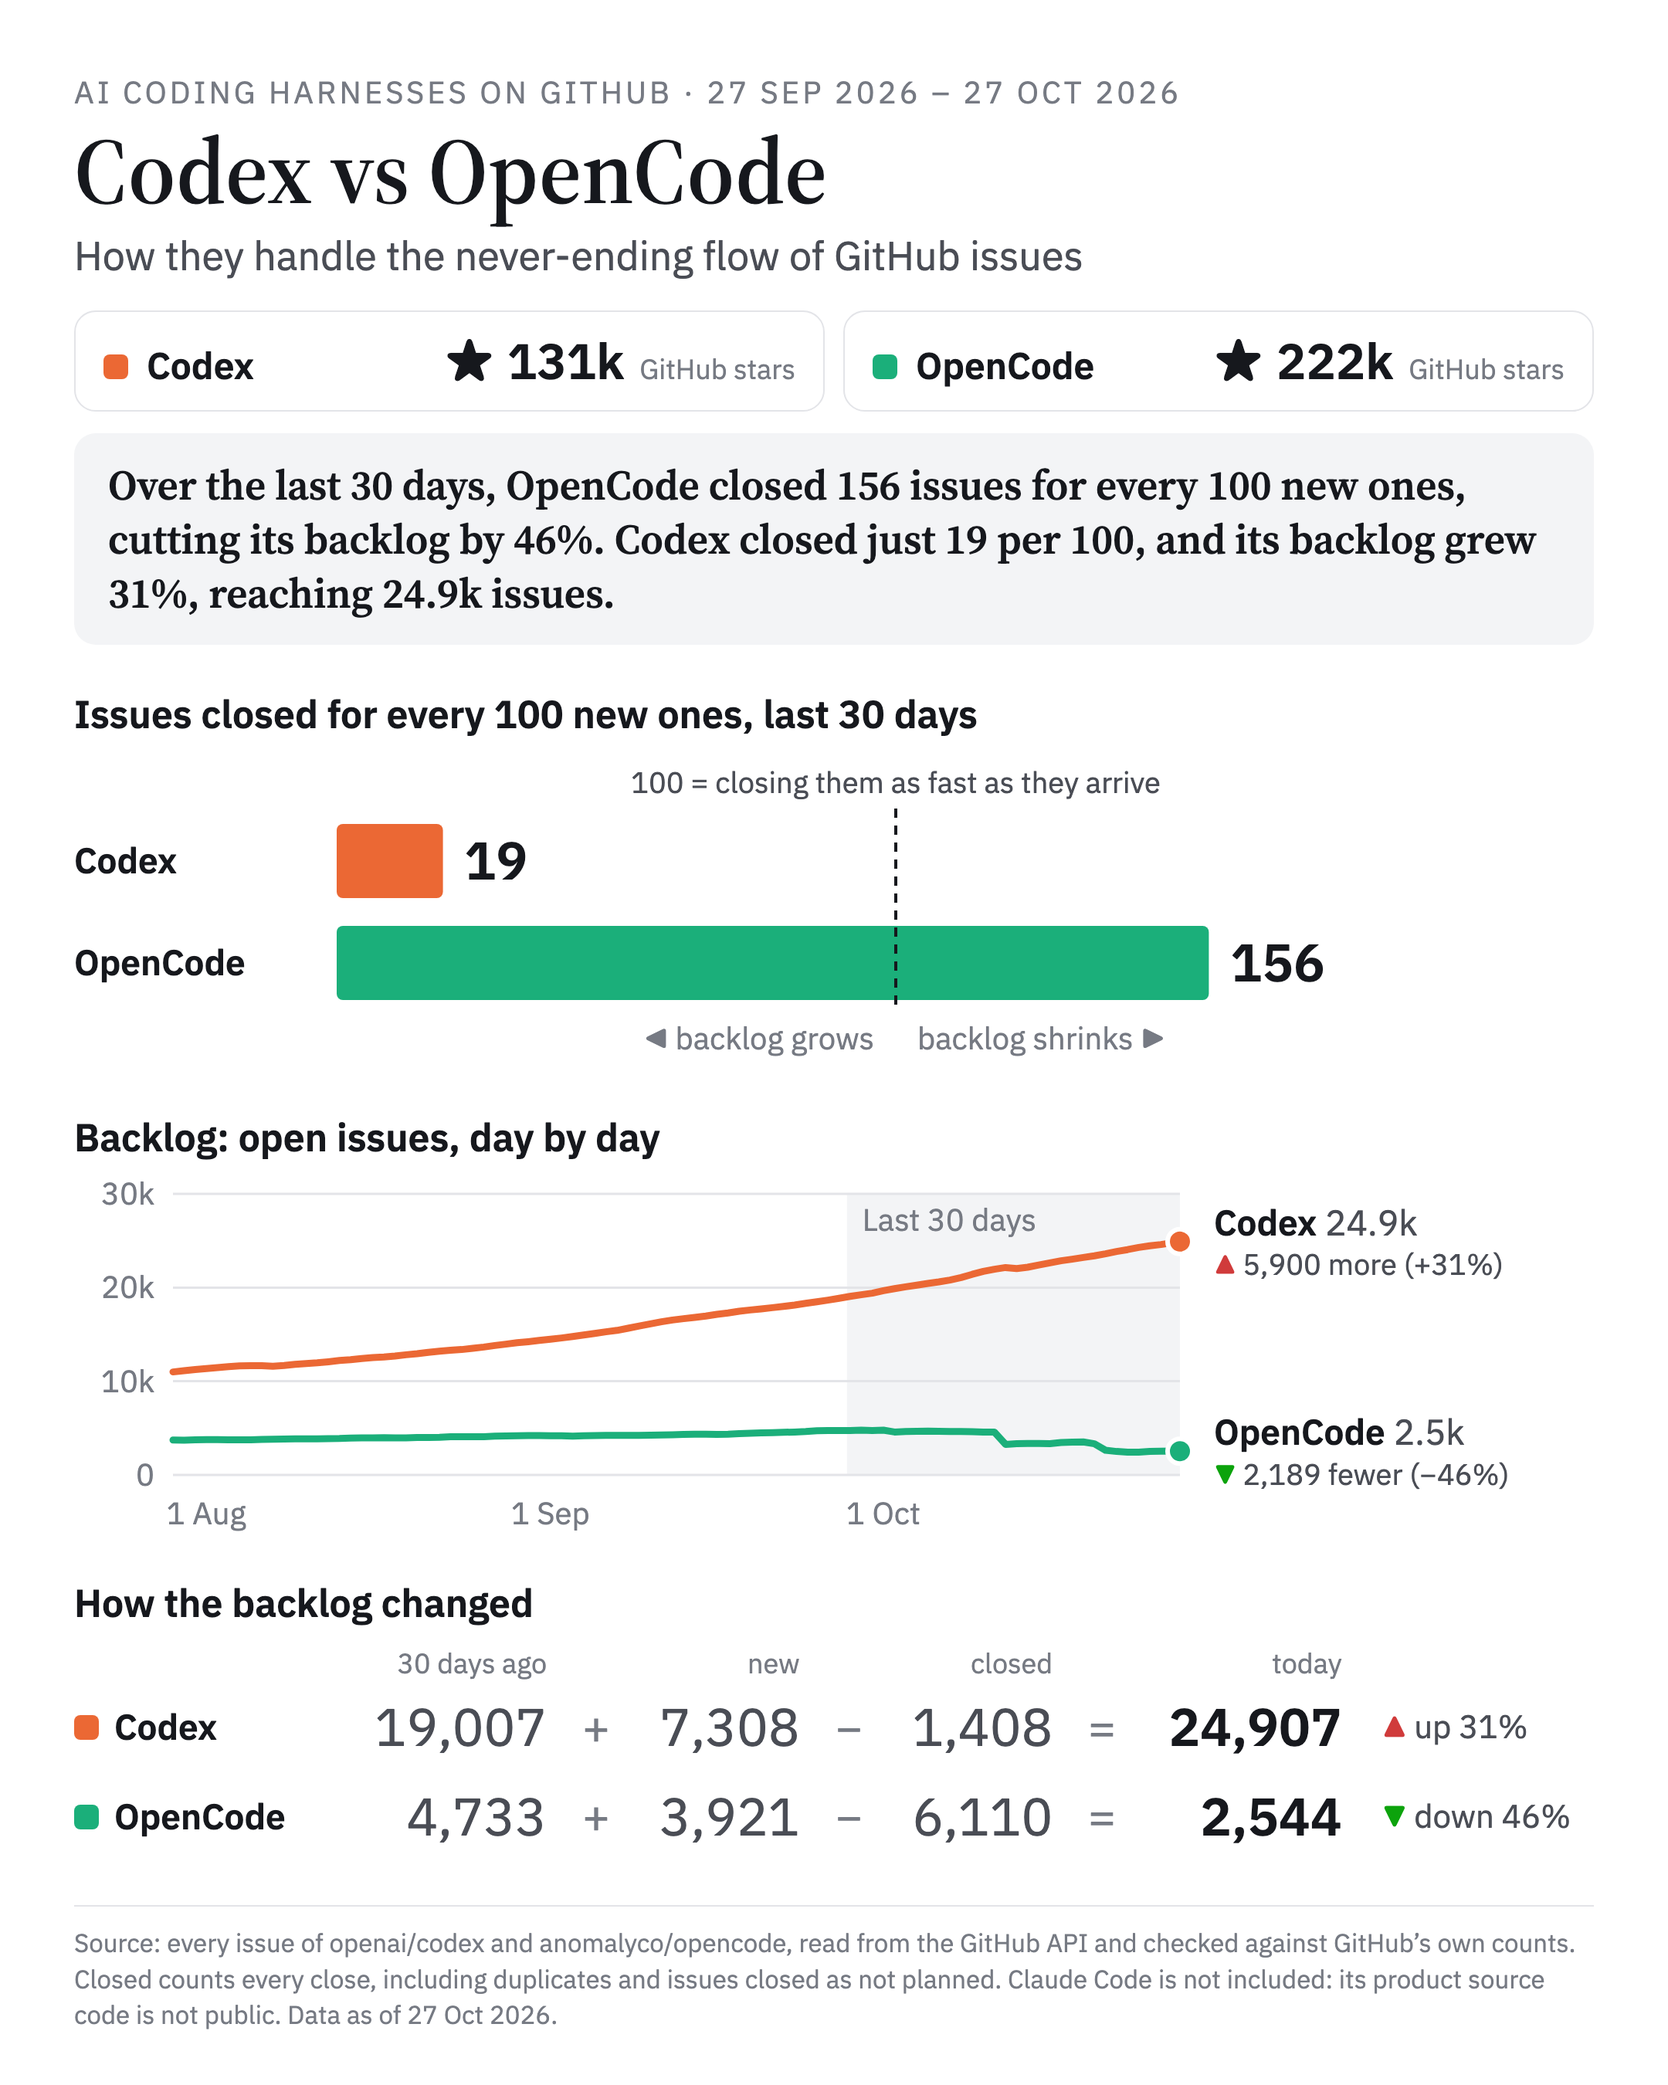
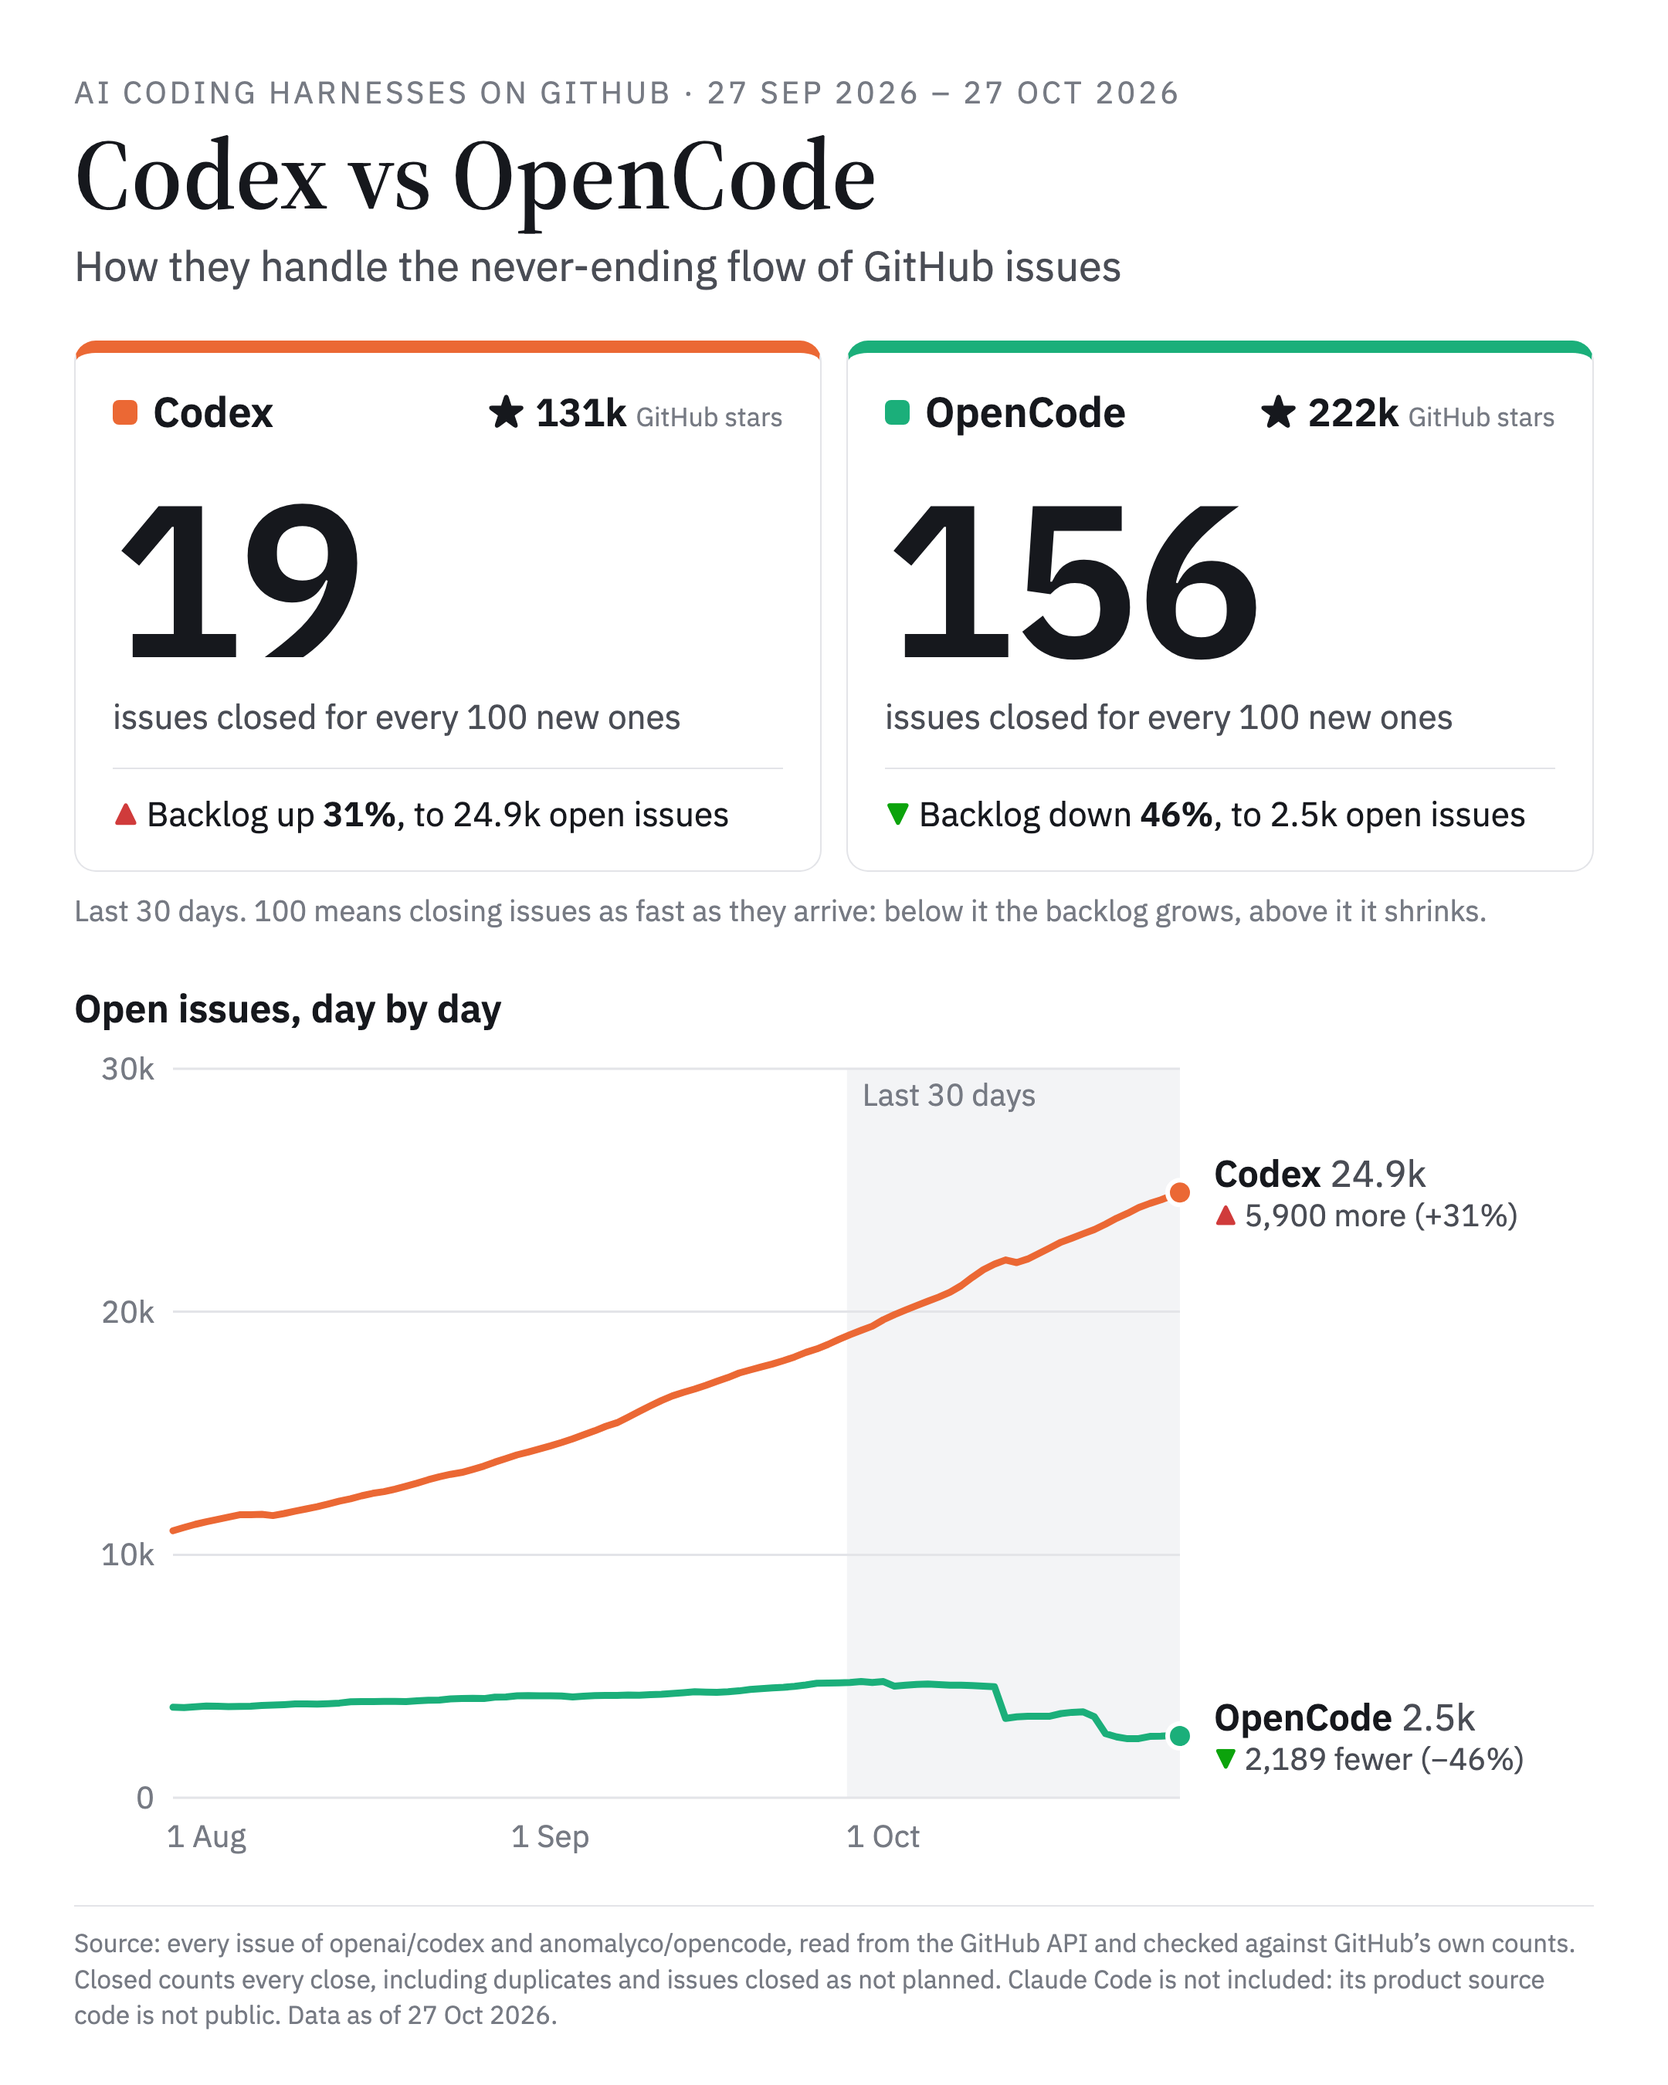
change how to image is generated

Changed region(s): [[0.031, 0.0622, 0.9616, 0.9022], [0.5273, 0.7778, 0.9306, 0.9022], [0.5273, 0.8711, 0.5894, 0.9022]]

diff --git a/scripts/social_pair.py b/scripts/social_pair.py
@@ -4,16 +4,13 @@ default pair is Codex and OpenCode, the two whose product source is public.
 
   social_pair.py [--repos A,B] [--as-of ISO] [--days N] [--out PATH]
 
-Under the title, each repository's GitHub stars, which also serve as the color key.
-1. Issues closed for every 100 new ones over the last N days, against the 100 mark where the backlog holds still.
-2. The backlog (open issues) day by day.
-3. How the backlog changed: open at the start + new − closed = open today.
-The finding above the charts is written from the numbers on every run.
+1. One card per repository: GitHub stars, issues closed for every 100 new ones over the last N days, and how
+   its backlog of open issues changed.
+2. The backlog day by day.
 
 Writes reports/harness-social-<a>-vs-<b>_<date>.html at 1080x1350 (4:5) and its PNG, like social.py.
 """
 import argparse
-import math
 import os
 from datetime import timedelta
 
@@ -29,64 +26,23 @@ def per100(c):
     return round(100 * (c["closed_per_new"] or 0))
 
 
-def chart_per_100(cur, keys):
-    """One bar per repo: issues closed for every 100 new ones, with a dashed mark at 100, where closes match
-    arrivals. Left of the mark the backlog grows; right of it, it shrinks."""
-    w, ml, mr, mt, bar, gap = 984, 170, 90, 44, 48, 18
-    top = max(150, 50 * math.ceil(max(per100(cur[k]) for k in keys) / 50))
-    X = lambda v: (w - ml - mr) * v / top
-    yb = mt + len(keys) * (bar + gap) - gap
-    h, x100 = yb + 44, ml + X(100)
-    out = [f'<svg viewBox="0 0 {w} {h}" width="{w}" height="{h}">']
-    for i, k in enumerate(keys):
-        y, v = mt + i * (bar + gap), per100(cur[k])
-        bw = max(3, X(v))
-        out.append(f'<text x="0" y="{y + bar / 2}" dy="0.35em" class="lab">{esc(name(k))}</text>'
-                   f'<rect x="{ml}" y="{y}" width="{bw:.1f}" height="{bar}" rx="4" fill="{REPOS[k]["color"]}"/>'
-                   f'<text x="{ml + bw + 14:.1f}" y="{y + bar / 2}" dy="0.35em" class="big">{v}</text>')
-    out.append(f'<line x1="{x100:.1f}" x2="{x100:.1f}" y1="{mt - 10}" y2="{yb + 8}" stroke="{INK}" stroke-width="2" stroke-dasharray="6 5"/>'
-               f'<text x="{x100:.1f}" y="{mt - 20}" text-anchor="middle" class="mark">100 = closing them as fast as they arrive</text>'
-               f'<text x="{x100 - 14:.1f}" y="{yb + 32}" text-anchor="end" class="ax">◀ backlog grows</text>'
-               f'<text x="{x100 + 14:.1f}" y="{yb + 32}" class="ax">backlog shrinks ▶</text>')
-    out.append("</svg>")
-    return "".join(out)
+def thousands(n):
+    """24,907 -> 24.9k: one decimal, so the image reads like the post."""
+    return f"{n / 1e3:.1f}k" if n >= 1000 else f"{n:,}"
 
 
-def backlog_sum(cur, keys, days):
-    """Open issues at the start, plus new, minus closed, equals open today: one written-out sum per repo,
-    so the change at the end of the line chart can be traced to the issues that came in and went out."""
-    rows = []
-    for k in keys:
-        c = cur[k]
-        a, n, x, z = c["backlog_start"], c["opened"], c["closed"], c["backlog_end"]
-        if a + n - x != z:
-            print(f"warning: {name(k)} open issues do not add up ({a:,} + {n:,} − {x:,} ≠ {z:,})")
-        up = z > a
-        rows.append(f'<tr><th><span class="sw" style="background:{REPOS[k]["color"]}"></span>{esc(name(k))}</th>'
-                    f'<td>{a:,}</td><td class="op">+</td><td>{n:,}</td><td class="op">−</td><td>{x:,}</td>'
-                    f'<td class="op">=</td><td class="b">{z:,}</td>'
-                    f'<td class="chg"><span style="color:{BAD if up else GOOD}">{"▲" if up else "▼"}</span> '
-                    f'{"up" if up else "down"} {abs(c["backlog_growth"]):.0%}</td></tr>')
-    return (f'<table class="eq"><tr class="hd"><th></th><th>{days} days ago</th><th></th><th>new</th><th></th>'
-            f'<th>closed</th><th></th><th>today</th><th></th></tr>{"".join(rows)}</table>')
-
-
-def stars(cur, keys):
-    """Each repository's GitHub stars, with its color swatch, so the strip is also the key to the charts."""
-    return '<div class="stars">' + "".join(
-        f'<div class="star"><span class="sw" style="background:{REPOS[k]["color"]}"></span><b>{esc(name(k))}</b>'
-        f'<span class="sv">★ {short(cur[k]["stars"])}</span><span class="sl">GitHub stars</span></div>' for k in keys) + "</div>"
-
-
-def finding(cur, keys, days):
-    """Who keeps up with their issues, in the words of the post that goes with the image."""
-    best = min(keys, key=lambda k: cur[k]["backlog_growth"] or 0)
-    worst = next(k for k in keys if k != best)
-    b, wc = cur[best], cur[worst]
-    return (f"Over the last {days} days, {name(best)} closed {per100(b)} issues for every 100 new ones, "
-            f"{'cutting' if b['backlog_growth'] < 0 else 'growing'} its backlog by {abs(b['backlog_growth']):.0%}. "
-            f"{name(worst)} closed {'just ' if per100(wc) < 100 else ''}{per100(wc)} per 100, and its backlog "
-            f"{'grew' if wc['backlog_growth'] > 0 else 'shrank'} {abs(wc['backlog_growth']):.0%}, reaching {wc['backlog_end'] / 1e3:.1f}k issues.")
+def card(c, k):
+    """Stars, the closing pace as one big number, and the backlog change, which says what that pace did."""
+    up = c["backlog_end"] > c["backlog_start"]
+    color = REPOS[k]["color"]
+    return (f'<div class="card" style="border-top-color:{color}">'
+            f'<div class="top"><span class="sw" style="background:{color}"></span><b>{esc(name(k))}</b>'
+            f'<span class="st">★ {short(c["stars"])} <span>GitHub stars</span></span></div>'
+            f'<div class="big">{per100(c)}</div>'
+            f'<div class="what">issues closed for every 100 new ones</div>'
+            f'<div class="bl"><span style="color:{BAD if up else GOOD}">{"▲" if up else "▼"}</span> '
+            f'Backlog {"up" if up else "down"} <b>{abs(c["backlog_growth"]):.0%}</b>, to {thousands(c["backlog_end"])} open issues</div>'
+            f'</div>')
 
 
 def render(cur, backlog, keys, s, e, as_of, days):
@@ -102,49 +58,35 @@ def render(cur, backlog, keys, s, e, as_of, days):
 html, body {{ width: {W}px; height: {H}px; overflow: hidden; background: {SURFACE}; }}
 body {{ color: {INK}; font: 24px/1.35 "IBM Plex Sans", "Segoe UI", system-ui, sans-serif; padding: 46px 48px 34px; display: flex; flex-direction: column; }}
 .eyebrow {{ font-size: 20px; letter-spacing: .1em; text-transform: uppercase; color: {INK3}; }}
-h1 {{ font-family: "Source Serif 4", Georgia, serif; font-weight: 600; font-size: 60px; line-height: 1.05; margin-top: 6px; }}
-.dek {{ font-size: 26px; color: {INK2}; margin-top: 6px; }}
-.stars {{ display: grid; grid-template-columns: 1fr 1fr; gap: 12px; margin-top: 18px; }}
-.star {{ display: flex; align-items: baseline; gap: 10px; padding: 10px 18px; border: 1px solid {RULE}; border-radius: 14px; }}
-.star b {{ font-size: 24px; font-weight: 600; }}
-.star .sv {{ margin-left: auto; font-size: 32px; font-weight: 600; }}
-.star .sl {{ font-size: 18px; color: {INK3}; }}
-.star .sw {{ margin-right: 2px; }}
-.sw {{ display: inline-block; flex: none; width: 16px; height: 16px; border-radius: 4px; margin-right: 10px; }}
-.find {{ margin-top: 14px; padding: 16px 22px; background: #f3f4f6; border-radius: 14px;
-        font-family: "Source Serif 4", Georgia, serif; font-size: 27px; line-height: 1.3; }}
-h2 {{ font-size: 25px; font-weight: 600; margin: 28px 0 10px; }}
+h1 {{ font-family: "Source Serif 4", Georgia, serif; font-weight: 600; font-size: 64px; line-height: 1.05; margin-top: 6px; }}
+.dek {{ font-size: 27px; color: {INK2}; margin-top: 8px; }}
+.cards {{ display: grid; grid-template-columns: 1fr 1fr; gap: 16px; margin-top: 30px; }}
+.card {{ padding: 20px 24px 22px; border: 1px solid {RULE}; border-top: 8px solid; border-radius: 14px; }}
+.top {{ display: flex; align-items: center; gap: 10px; }}
+.top b {{ font-size: 27px; font-weight: 600; }}
+.sw {{ display: inline-block; flex: none; width: 16px; height: 16px; border-radius: 4px; }}
+.st {{ margin-left: auto; font-size: 25px; font-weight: 600; }}
+.st span {{ font-size: 17px; font-weight: 400; color: {INK3}; }}
+.big {{ font-size: 140px; font-weight: 600; line-height: 1; margin-top: 18px; font-variant-numeric: tabular-nums; letter-spacing: -.02em; }}
+.what {{ font-size: 22px; color: {INK2}; margin-top: 6px; }}
+.bl {{ margin-top: 18px; padding-top: 14px; border-top: 1px solid {RULE}; font-size: 22px; }}
+.bl b {{ font-weight: 600; }}
+.note {{ font-size: 19px; color: {INK3}; margin-top: 12px; }}
+h2 {{ font-size: 25px; font-weight: 600; margin: 34px 0 12px; }}
 svg text {{ font-family: "IBM Plex Sans", system-ui, sans-serif; }}
 svg .ax {{ font-size: 20px; fill: {INK3}; }}
-svg .end {{ font-size: 23px; font-weight: 600; fill: {INK}; }}
+svg .end {{ font-size: 24px; font-weight: 600; fill: {INK}; }}
 svg .endv {{ font-weight: 400; fill: {INK2}; }}
-svg .chg {{ font-size: 19px; fill: {INK2}; }}
-svg .lab {{ font-size: 23px; font-weight: 600; fill: {INK}; }}
-svg .big {{ font-size: 34px; font-weight: 600; fill: {INK}; }}
-svg .mark {{ font-size: 19px; fill: {INK2}; }}
-.eq {{ border-collapse: collapse; font-variant-numeric: tabular-nums; }}
-.eq th, .eq td {{ padding: 6px 0; text-align: right; white-space: nowrap; }}
-.eq .hd th {{ font-size: 18px; font-weight: 400; color: {INK3}; padding: 0; }}
-.eq tr > th:first-child {{ text-align: left; font-size: 23px; font-weight: 600; padding-right: 30px; }}
-.eq td {{ font-size: 34px; color: {INK2}; }}
-.eq td.op {{ color: {INK3}; font-size: 30px; padding: 6px 20px; text-align: center; }}
-.eq td.b {{ font-weight: 600; color: {INK}; }}
-.eq td.chg {{ font-size: 21px; padding-left: 26px; text-align: left; }}
-.gap {{ height: 14px; }}
+svg .chg {{ font-size: 20px; fill: {INK2}; }}
 .foot {{ margin-top: auto; padding-top: 12px; border-top: 1px solid {RULE}; font-size: 16.5px; line-height: 1.4; color: {INK3}; }}
 </style></head><body>
 <p class="eyebrow">AI coding harnesses on GitHub · {fdate(s)} – {fdate(e)}</p>
 <h1>{" vs ".join(esc(name(k)) for k in keys)}</h1>
 <p class="dek">How they handle the never-ending flow of GitHub issues</p>
-{stars(cur, keys)}
-<p class="find">{esc(finding(cur, keys, days))}</p>
-<h2>Issues closed for every 100 new ones, last {days} days</h2>
-{chart_per_100(cur, keys)}
-<h2>Backlog: open issues, day by day</h2>
-{chart_open_issues({k: backlog[k] for k in keys}, cur, s, e, days, h=230)}
-<h2>How the backlog changed</h2>
-{backlog_sum(cur, keys, days)}
-<div class="gap"></div>
+<div class="cards">{"".join(card(cur[k], k) for k in keys)}</div>
+<p class="note">Last {days} days. 100 means closing issues as fast as they arrive: below it the backlog grows, above it it shrinks.</p>
+<h2>Open issues, day by day</h2>
+{chart_open_issues({k: backlog[k] for k in keys}, cur, s, e, days, h=520)}
 <p class="foot">Source: every issue of {" and ".join(esc(REPOS[k]["repo"]) for k in keys)}, read from the GitHub API and checked against GitHub’s own counts. Closed counts every close, including duplicates and issues closed as not planned. {" ".join(left_out)} Data as of {fdate(as_of)}.</p>
 </body></html>"""
 

diff --git a/README.md b/README.md
@@ -12,7 +12,7 @@ It also measures the agents at work elsewhere: pull requests signed by each agen
 
 ## Snapshot: 27 Oct 2026, last 30 days
 
-<img src="reports/linkedin-post-codex-vs-opencode_2026-10-27.png" width="480" alt="Codex vs OpenCode: issues closed for every 100 new ones, open issues day by day, and how the backlog changed">
+<img src="reports/linkedin-post-codex-vs-opencode_2026-10-27.png" width="480" alt="Codex vs OpenCode: GitHub stars, issues closed for every 100 new ones, and open issues day by day">
 
 | | Claude Code | Codex | OpenCode |
 |---|---:|---:|---:|
@@ -52,10 +52,8 @@ Every run writes these. They are generated files and are not committed, except t
   - how big issues and PRs are.
 - **Social image** (`reports/harness-social_<date>.png`): one 1080×1350 image of the three repositories for a LinkedIn post. It has two findings, each with the chart behind it: open issues day by day over 90 days, and issues received against issues closed over the last 30 days (closes split into resolved and not resolved). Below them are GitHub stars and merged PRs.
 - **Head-to-head image** (`reports/harness-social-codex-vs-opencode_<date>.png`): Codex and OpenCode only, the two whose product source is public. It focuses on how each handles its issues:
-  - GitHub stars;
-  - issues closed for every 100 new ones, against the 100 mark where the backlog holds still;
-  - the backlog day by day;
-  - the sum behind the change (open 30 days ago + new − closed = open today).
+  - one card per repository with its GitHub stars, issues closed for every 100 new ones (100 means closing them as fast as they arrive), and how its backlog changed;
+  - the backlog of open issues day by day.
 
   Pick another pair with `social_pair.py --repos A,B`.
 - **Agent PRs across GitHub** (`reports/harness-agents_<date>.html`): which agent ships more code and fixes problems faster, from PRs that carry Claude Code's, Codex's or OpenCode's signature in any public repository. It also summarizes what benchmarks and outside studies report.
